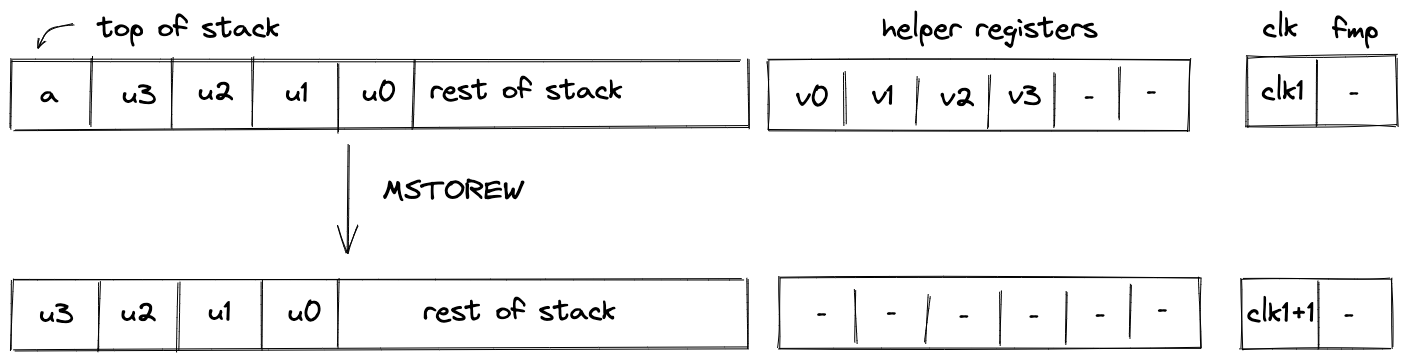
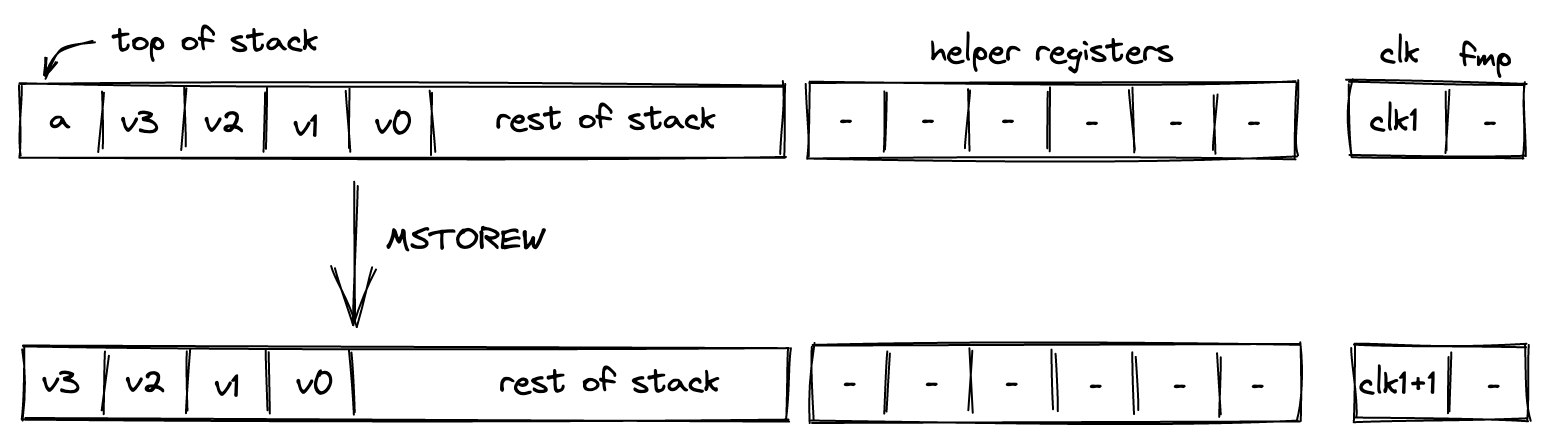
docs: update memory constraints & diagrams
- updated memory constraint descriptions
- updated chiplet operation labels for memory
- updated stack memory ops descriptions
- updated chiplet and stack memory ops diagrams
- updated memory layout diagram

Changed region(s): [[0.0, 0.0304, 1.0, 0.395], [0.0, 0.7597, 1.0, 0.9724], [0.2141, 0.4254, 0.367, 0.7293]]

diff --git a/docs/src/design/stack/io_ops.md b/docs/src/design/stack/io_ops.md
@@ -59,30 +59,20 @@ Assume that the word with elements $v_0, v_1, v_2, v_3$ is located in memory at 
 
 ![mloadw](../../assets/design/stack/io_ops/MLOADW.png)
 
-To simplify description of memory access request value, we first define the following variables:
-
-The value representing state of memory before the operation:
+To simplify description of the memory access request value, we first define a variable for the value that represents the state of memory after the operation:
 
 $$
-v_{old} = \sum_{i=0}^3\alpha_{i+5} \cdot s_{3-i}'
+v = \sum_{i=0}^3\alpha_{i+5} \cdot s_{3-i}'
 $$
 
-The value representing state of memory after the operation:
+Using the above variable, we define the value representing the memory access request as follows:
 
 $$
-v_{new} = \sum_{i=0}^3\alpha_{i+9} \cdot s_{3-i}'
-$$
-
-Note that since this is a _read_ operation, the values come from the same registers, but the $\alpha$ values are different from the values used to compute the old state of memory.
-
-Using the above variables, we define the value representing the memory access request as follows:
-
-$$
-u_{mem} = \alpha_0 + \alpha_1 \cdot op_{mem} + \alpha_3 \cdot s_0 + \alpha_4 \cdot clk + v_{old} + v_{new}
+u_{mem} = \alpha_0 + \alpha_1 \cdot op_{mem\_read} + \alpha_3 \cdot s_0 + \alpha_4 \cdot clk + v
 $$
 
 In the above:
-- $op_{mem}$ is the unique [operation label](../chiplets/main.md#operation-labels) of the memory access operation.
+- $op_{mem\_read}$ is the unique [operation label](../chiplets/main.md#operation-labels) of the memory read operation.
 - $s_0$ is the memory address from which the values are to be loaded onto the stack.
 - $clk$ is the current clock cycle of the VM.
 
@@ -96,28 +86,22 @@ Assume that the word with elements $v_0, v_1, v_2, v_3$ is located in memory at 
 
 ![mload](../../assets/design/stack/io_ops/MLOAD.png)
 
-To simplify description of memory access request value, we first define the following variables:
-
-The value representing state of memory before the operation (values in registers $h_0, h_1, h_2$ are set by the prover non-deterministically):
+To simplify description of the memory access request value, we first define a variable for the value that represents the state of memory after the operation:
 
 $$
-v_{old} = \alpha_5 \cdot s_0' + \sum_{i=1}^3\alpha_{i+5} \cdot h_{i-1}'
+v = \alpha_5 \cdot s_0' + \sum_{i=1}^3\alpha_{i+5} \cdot h_{3-i}'
 $$
 
-The value representing state of memory after the operation:
+*Note: the values in registers $h_0, h_1, h_2$ are set by the prover non-deterministically.*
+
+Using the above variable, we define the value representing the memory access request as follows:
 
 $$
-v_{new} = \alpha_9 \cdot s_0' + \sum_{i=1}^3\alpha_{i+9} \cdot h_{i-1}'
-$$
-
-Using the above variables, we define the value representing the memory access request as follows:
-
-$$
-u_{mem} = \alpha_0 + \alpha_1 \cdot op_{mem} + \alpha_3 \cdot s_0 + \alpha_4 \cdot clk + v_{old} + v_{new}
+u_{mem} = \alpha_0 + \alpha_1 \cdot op_{mem\_read} + \alpha_3 \cdot s_0 + \alpha_4 \cdot clk + v
 $$
 
 In the above:
-- $op_{mem}$ is the unique [operation label](../chiplets/main.md#operation-labels) of the memory access operation.
+- $op_{mem\_read}$ is the unique [operation label](../chiplets/main.md#operation-labels) of the memory read operation.
 - $s_0$ is the memory address from which the value is to be loaded onto the stack.
 - $clk$ is the current clock cycle of the VM.
 
@@ -127,34 +111,26 @@ The effect of this operation on the rest of the stack is:
 * **No change** starting from position $1$.
 
 ### MSTOREW
-Assume that the word with elements $u_0, u_1, u_2, u_3$ is located in memory at address $a$. The `MSTOREW` operation pops an element off the stack, interprets it as a memory address, and writes the remaining $4$ elements at the top of the stack into memory at the specified address. The stored elements are not removed from the stack. The diagram below illustrates this graphically.
+The `MSTOREW` operation pops an element off the stack, interprets it as a memory address, and writes the remaining $4$ elements at the top of the stack into memory at the specified address. The stored elements are not removed from the stack. The diagram below illustrates this graphically.
 
 ![mstorew](../../assets/design/stack/io_ops/MSTOREW.png)
 
 After the operation the contents of memory at address $a$ would be set to $v_0, v_1, v_2, v_3$.
 
-To simplify description of memory access request value, we first define the following variables:
-
-The value representing state of memory before the operation (set by the prover non-deterministically in registers $h_0, ..., h_3$):
+To simplify description of the memory access request value, we first define a variable for the value that represents the state of memory after the operation:
 
 $$
-v_{old} = \sum_{i=0}^3\alpha_{i+5} \cdot h_i
+v = \sum_{i=0}^3\alpha_{i+5} \cdot s_{3-i}'
 $$
 
-The value representing state of memory after the operation:
+Using the above variable, we define the value representing the memory access request as follows:
 
 $$
-v_{new} = \sum_{i=0}^3\alpha_{i+9} \cdot s_{3-i}'
-$$
-
-Using the above variables, we define the value representing the memory access request as follows:
-
-$$
-u_{mem} = \alpha_0 + \alpha_1 \cdot op_{mem} + \alpha_3 \cdot s_0 + \alpha_4 \cdot clk + v_{old} + v_{new}
+u_{mem} = \alpha_0 + \alpha_1 \cdot op_{mem\_write} + \alpha_3 \cdot s_0 + \alpha_4 \cdot clk + v
 $$
 
 In the above:
-- $op_{mem}$ is the unique [operation label](../chiplets/main.md#operation-labels) of the memory access operation.
+- $op_{mem\_write}$ is the unique [operation label](../chiplets/main.md#operation-labels) of the memory write operation.
 - $s_0$ is the memory address into which the values from the stack are to be saved.
 - $clk$ is the current clock cycle of the VM.
 
@@ -164,34 +140,28 @@ The effect of this operation on the rest of the stack is:
 * **Left shift** starting from position $1$.
 
 ### MSTORE
-Assume that the word with elements $v_0, v_1, v_2, v_3$ is located in memory at address $a$. The `MSTORE` operation pops an element off the stack, interprets it as a memory address, and writes the remaining element at the top of the stack into the first element of the word located at the specified memory address. The remaining $3$ elements of the word are not affected. The diagram below illustrates this graphically.
+The `MSTORE` operation pops an element off the stack, interprets it as a memory address, and writes the remaining element at the top of the stack into the first element of the word located at the specified memory address. The remaining $3$ elements of the word are not affected. The diagram below illustrates this graphically.
 
 ![mstore](../../assets/design/stack/io_ops/MSTORE.png)
 
 After the operation the contents of memory at address $a$ would be set to $b, v_1, v_2, v_3$.
 
-To simplify description of memory access request value, we first define the following variables:
-
-The value representing state of memory before the operation (set by the prover non-deterministically in registers $h_0, ..., h_3$):
+To simplify description of the memory access request value, we first define a variable for the value that represents the state of memory after the operation:
 
 $$
-v_{old} = \sum_{i=0}^3\alpha_{i+5} \cdot h_i
+v = \alpha_5 \cdot s_0' + \sum_{i=1}^3\alpha_{i+5} \cdot h_{3-i}'
 $$
 
-The value representing state of memory after the operation:
+*Note: the values in registers $h_0, h_1, h_2$ are set by the prover non-deterministically.*
+
+Using the above variable, we define the value representing the memory access request as follows:
 
 $$
-v_{new} = \alpha_9 \cdot s_0' + \sum_{i=1}^3\alpha_{i+9} \cdot h_i'
-$$
-
-Using the above variables, we define the value representing the memory access request as follows:
-
-$$
-u_{mem} = \alpha_0 + \alpha_1 \cdot op_{mem} + \alpha_3 \cdot s_0 + \alpha_4 \cdot clk + v_{old} + v_{new}
+u_{mem} = \alpha_0 + \alpha_1 \cdot op_{mem\_write}  + \alpha_3 \cdot s_0 + \alpha_4 \cdot clk + v
 $$
 
 In the above:
-- $op_{mem}$ is the unique [operation label](../chiplets/main.md#operation-labels) of the memory access operation.
+- $op_{mem\_write} $ is the unique [operation label](../chiplets/main.md#operation-labels) of the memory write operation.
 - $s_0$ is the memory address into which the value from the stack is to be saved.
 - $clk$ is the current clock cycle of the VM.
 

diff --git a/docs/src/design/chiplets/memory.md b/docs/src/design/chiplets/memory.md
@@ -85,7 +85,7 @@ Requiring that memory addresses are contiguous may also be a difficult limitatio
 In the above, the prover sets the value in the new column `t` to $0$ when the address doesn't change, and to $1 / (a' - a)$ otherwise. To simplify constraint description, we'll define variable $n$ computed as follows:
 
 $$
-n = (a' - a) \cdot t
+n = (a' - a) \cdot t'
 $$
 
 Then, to make sure the prover sets the value of $t$ correctly, we'll impose the following constraints:
@@ -172,10 +172,11 @@ The layout of Miden VM memory table is shown below:
 
 where:
 
+- `s0` is a selector column which is set to $1$ for read operations and $0$ for write operations.
+- `s1` is a selector oclumn which is set to $1$ when previously accessed memory is being read and $0$ otherwise. In other words, it is set to $1$ only when the context and address are the same as they were in the previous row and the `s0` operation selector is set to $1$ (indicating a read).
 - `ctx` contains context ID. Values in this column must increase monotonically but there can be gaps between two consecutive values of up to $2^{32}$. Also, two consecutive values can be the same. In AIR constraint description below, we refer to this column as $c$.
 - `addr` contains memory address. Values in this column must increase monotonically for a given context but there can be gaps between two consecutive values of up to $2^{32}$. Also, two consecutive values can be the same. In AIR constraint description below, we refer to this column as $a$.
 - `clk` contains clock cycle at which the memory operation happened. Values in this column must increase monotonically for a given context and memory address but there can be gaps between two consecutive values of up to $2^{32}$. In AIR constraint description below, we refer to this column as $i$.
-- `u0, u1, u2, u3` columns contain field elements stored at a given context/address/clock cycle prior to the memory operation.
 - `v0, v1, v2, v3` columns contain field elements stored at a given context/address/clock cycle after the memory operation.
 - Columns `d0` and `d1` contain lower and upper $16$ bits of the delta between two consecutive context IDs, addresses, or clock cycles. Specifically:
   - When the context changes, these columns contain $(c' - c)$.
@@ -186,7 +187,7 @@ where:
   - When the context remains the same but the address changes, this column contains the inverse of $(a' - a)$.
   - When both the context and the address remain the same, this column contains the inverse of $(i' - i - 1)$.
 
-For every memory access operation (i.e., read or write), a new row is added to the memory table. For read operations values in `u` columns are equal to the corresponding values in `v` columns. For write operations, the values may be different. Memory values are always initialized to $0$.
+For every memory access operation (i.e., read or write), a new row is added to the memory table. For read operations, `s0` is set to $1$. If neither `ctx` nor `addr` have changed, then `s1` is set to $1$ and the `v` columns are set to equal the values from the previous row. If `ctx` or `addr` have changed, then `s1` is set to $0$ and the `v` columns are initialized to $0$. For write operations, the values may be different, and both selector columns `s0` and `s1` are set to $0$.
 
 The amortized cost of reading or writing a single value is between $4$ and $5$ trace cells (this accounts for the trace cells needed for $16$-bit range checks). Thus, from performance standpoint, this approach is roughly $2.5$x worse than the simple contiguous write-once memory described earlier. However, our view is that this trade-off is worth it given that this approach provides read-write memory, context separation, and eliminates the contiguous memory requirement.
 
@@ -195,8 +196,8 @@ The amortized cost of reading or writing a single value is between $4$ and $5$ t
 To simplify description of constraints, we'll define two variables $n_0$ and $n_1$ as follows:
 
 $$
-n_0 = \Delta c \cdot t \\
-n_1 = \Delta a \cdot t
+n_0 = \Delta c \cdot t' \\
+n_1 = \Delta a \cdot t'
 $$
 
 Where $\Delta c = c' - c$ and $\Delta a = a' - a$.
@@ -221,6 +222,29 @@ $$
 
 The above constraints guarantee that when context changes, $n_0 = 1$. When context remains the same but address changes, $(1 - n_0) \cdot n_1 = 1$. And when neither the context nor the address change, $(1 - n_0) \cdot (1 - n_1) = 1$.
 
+To enforce the values of the selector columns, we first require that they both contain only binary values.
+
+>$$
+s_0^2 - s_0 = 0 \text{ | degree} = 2
+$$
+
+>$$
+s_1^2 - s_1 = 0 \text{ | degree} = 2
+$$
+
+Then we require that $s_1$ is always set to $1$ during read operations when the context and address did not change and to $0$ in all other cases.
+
+>$$
+(1 - n_0) \cdot (1 - n_1) \cdot s'_0 \cdot (1 - s'_1) = 0 \text{ | degree} = 6
+$$
+
+>$$
+(n_0 + (1 - n_0) \cdot n_1  + (1 - s'_0)) \cdot s'_1 = 0 \text{ | degree} = 5
+$$
+
+The first constraint enforces that `s_1` is $1$ when the operation is a read and `ctx` and `addr` are both unchanged. The second constraint enforces that when either the context changed, the address changed, or the operation is a write, then `s_1` is set to $0$.
+
+
 To enforce the values of context ID, address, and clock cycle grow monotonically as described in the previous section, we define the following constraint.
 
 >$$
@@ -234,22 +258,22 @@ In addition to this constraint, we also need to make sure that values in registe
 Next, we need to make sure that values at a given memory address are always initialized to $0$. This can be done with the following constraint:
 
 >$$
-(n_0 + (1 - n_0) \cdot n_1) \cdot u_i' = 0 \text{ for } i \in \{0, 1, 2, 3\} \text{ | degree} = 5
+s_0 \cdot (1 - s_1) \cdot v_i = 0 \text{ for } i \in \{0, 1, 2, 3\} \text{ | degree} = 3
 $$
 
-Thus, when either the context changes, or the address changes, values in $u_i$ columns are guaranteed to be zeros.
+Thus, when the operation is a read and either the context changes or the address changes, values in the $v_i$ columns are guaranteed to be zeros.
 
-Lastly, we need to make sure that for the same context/address combination, the $v_i$ columns of the current row are equal to the corresponding $u_i$ columns of the next row. This can be done with the following constraints:
+Lastly, we need to make sure that for the same context/address combination, the $v_i$ columns of the current row are equal to the corresponding $v_i$ columns of the next row. This can be done with the following constraints:
 
 >$$
-(1 - n_0) \cdot (1 - n_1) \cdot (u_i' - v_i) = 0 \text{ for } i \in \{0, 1, 2, 3\} \text{ | degree} = 5
+s_1 \cdot (v_i' - v_i) = 0 \text{ for } i \in \{0, 1, 2, 3\} \text{ | degree} = 2
 $$
 
 #### Memory row value
 Communication between the memory chiplet and the stack is accomplished via the chiplet bus $b_{chip}$. To respond to memory access requests from the stack, we need to divide the current value in $b_{chip}$ by the value representing a row in the memory table. This value can be computed as follows:
 
 $$
-v_{mem} = \alpha_0 + \alpha_1 \cdot op_{mem} + \alpha_2 \cdot c + \alpha_3 \cdot a + \alpha_4 \cdot i + \sum_{j=0}^3(\alpha_{j+5} \cdot u_j) + \sum_{j=0}^3(\alpha_{j+9} \cdot v_j)
+v_{mem} = \alpha_0 + \alpha_1 \cdot op_{mem} + \alpha_2 \cdot c + \alpha_3 \cdot a + \alpha_4 \cdot i + \sum_{j=0}^3(\alpha_{j + 5} \cdot v_j)
 $$
 
 Where, $op_{mem}$ is the unique [operation label](./main.md#operation-labels) of the memory access operation.

diff --git a/docs/src/design/chiplets/main.md b/docs/src/design/chiplets/main.md
@@ -64,7 +64,7 @@ The resulting order is as follows:
 | --------------- | :----------: | :-------------: | :---------------------: | :----------: | :-----: | --------------------- |
 | Hash chiplet    |      8       |        8        |            1            |       9      |   17    | $\{0\}$               |
 | Bitwise chiplet |      8       |        3        |            2            |       5      |   13    | $\{1, 0\}$            |
-| Memory          |      -       |        6        |            3            |       9      |   14    | $\{1, 1, 0\}$         |
+| Memory          |      -       |        6        |            3            |       9      |   12    | $\{1, 1, 0\}$         |
 | Padding         |      -       |        -        |            -            |       -      |   -     | $\{1, 1, 1\}$         |
 
 ### Additional requirements for stacking execution traces
@@ -97,7 +97,8 @@ The labels are composed from the flag values of the chiplet selector(s) and inte
 | `HASHER_RETURN_STATE`  |        $\{0\}$        |     $\{0, 0, 1\}$      | $\{0, 0, 0, 1\}$ |   9   |
 | `BITWISE_AND`          |      $\{1, 0\}$       |       $\{0\}$          | $\{1, 0, 0\}$    |   2   |
 | `BITWISE_XOR`          |      $\{1, 0\}$       |       $\{1\}$          | $\{1, 0, 1\}$    |   6   |
-| `MEMORY`               |     $\{1, 1, 1\}$     |           NA           | $\{1, 1, 1\}$    |   8   |
+| `MEMORY_READ`          |     $\{1, 1, 0\}$     |       $\{1\}$          | $\{1, 1, 0, 1\}$ |   12  |
+| `MEMORY_WRITE`         |     $\{1, 1, 0\}$     |       $\{0\}$          | $\{1, 1, 0, 0\}$ |   4   |
 
 ## Chiplets module constraints
 
